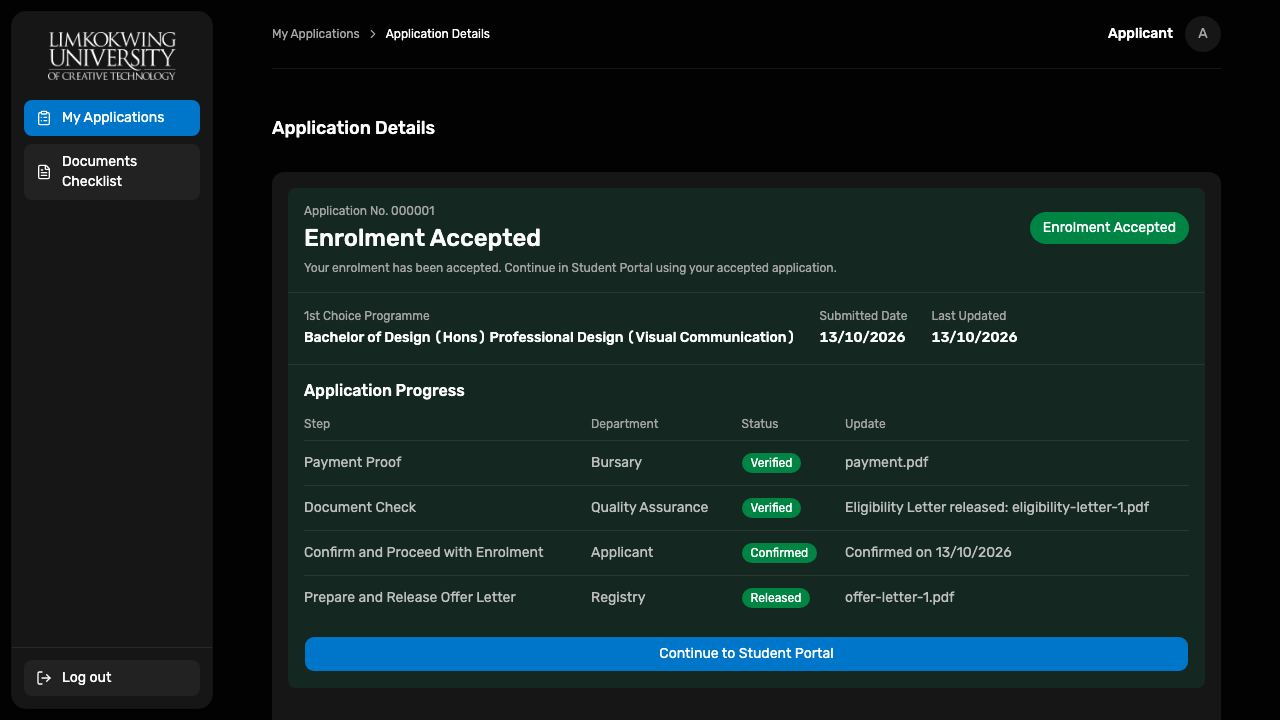
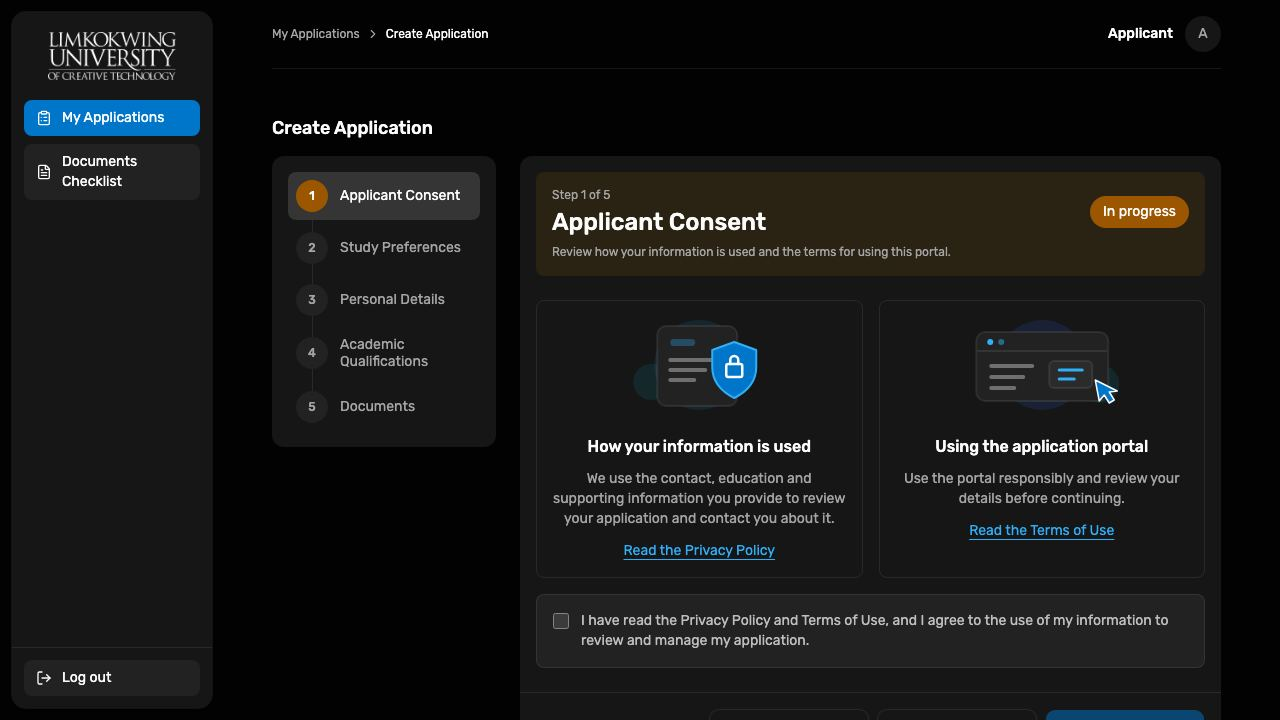
Mirror fixed Applicant draft playback poster.

diff --git a/diagrams/old-cms-lesotho/demo-role-playback.js b/diagrams/old-cms-lesotho/demo-role-playback.js
@@ -7,7 +7,7 @@ export const ROLES = [
     id: "applicant",
     label: "Applicant",
     portal: "https://apply.lesotho.raisd.co",
-    account: "Keychain · completed@raisd.demo / completed2026",
+    account: "Keychain · fresh@raisd.demo (draft) · completed@raisd.demo (fee → offer)",
     summary: "Apply → fee proof → offer accept (FM-02 / FM-09)",
     scenes: [
       {
@@ -16,11 +16,11 @@ export const ROLES = [
         route: "/sign-in",
         fm: ["FM-01", "FM-02", "FM-14"],
         body: "Open the Lesotho Applicant host and enter via Keychain or SSO.",
-        detail: "This first Applicant screen is the Lesotho apply host after Keychain/SSO. The prepared Demo account (completed@raisd.demo) already has a submitted case so the walkthrough can continue through fee, eligibility, and offer without filling a blank form. Fresh accounts exist for empty-draft demos, but the storyboard uses the completed path so staff desks have something to review.",
+        detail: "Lesotho apply host after Keychain/SSO. Use fresh@raisd.demo for a blank/in-progress draft (next scene), or completed@raisd.demo for a prepared mid-flow case used later for fee, eligibility, and offer so Staff desks have something to review.",
         steps: [
           "Open https://apply.lesotho.raisd.co (or Keychain → Applicant Lesotho).",
-          "Pick completed@raisd.demo to continue a prepared Demo case, or fresh@raisd.demo for an empty draft.",
-          "Land on the Applicant shell.",
+          "Pick fresh@raisd.demo for draft/submit, or completed@raisd.demo for fee → offer.",
+          "Land on My Applications.",
         ],
         durationMs: 7000,
       },
@@ -29,12 +29,12 @@ export const ROLES = [
         title: "Draft and submit application",
         route: "/apply",
         fm: ["FM-02", "FM-05"],
-        body: "Complete Lesotho study preferences and submit so the Admissions policy pins.",
-        detail: "Application Details shows the submitted Lesotho case pinned to campus-lesotho Admissions policy. Study preferences, personal and academic sections, and documents are already filled in the Demo seed. Submission is what attaches review flags (rank/score, extract, n/3 desks) and catalogues used later by Faculty, QA, and Registry—not a free-form CMS form.",
+        body: "As fresh@raisd.demo, open or start a draft and complete Lesotho study preferences before submit.",
+        detail: "This slide must show a draft / in-progress application form — not Enrolment Accepted. Sign in as fresh@raisd.demo, resume or start an application, set campus to Lesotho, and complete personal, academic, and document sections. Submit pins campus-lesotho Admissions policy (review flags + catalogues) for Faculty, QA, and Registry. The completed@ account is reserved for later Applicant scenes because it is already past accept.",
         steps: [
-          "Open Apply / continue draft.",
-          "Set campus to Lesotho; complete personal, academic, and document sections required by the Demo form.",
-          "Submit. The case pins campus-lesotho Admissions policy (review flags + catalogues).",
+          "Keychain → fresh@raisd.demo (not completed@).",
+          "Resume draft or Add application; set campus to Lesotho.",
+          "Complete required sections and Submit to pin Admissions policy.",
         ],
         durationMs: 7500,
       },
